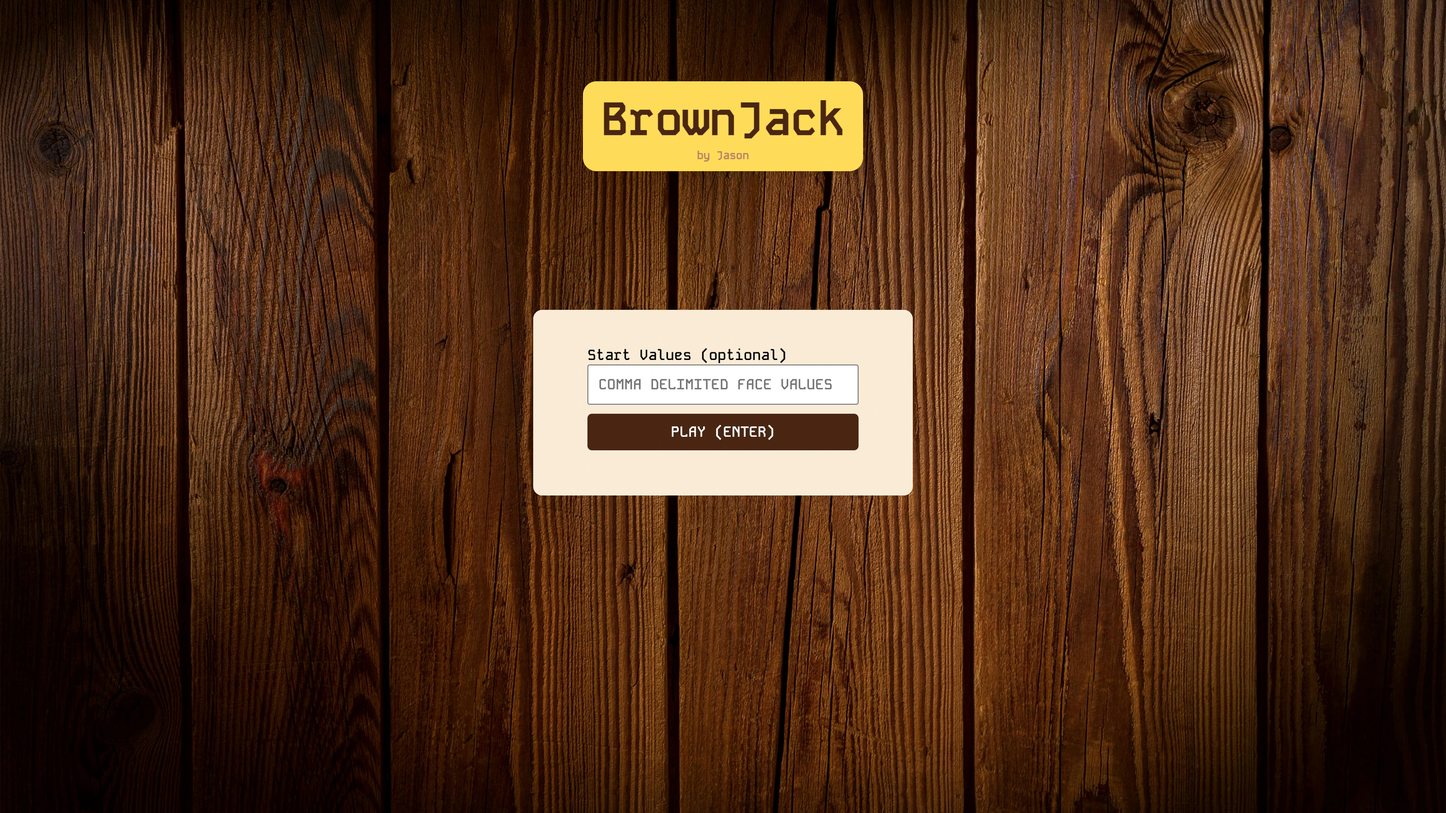
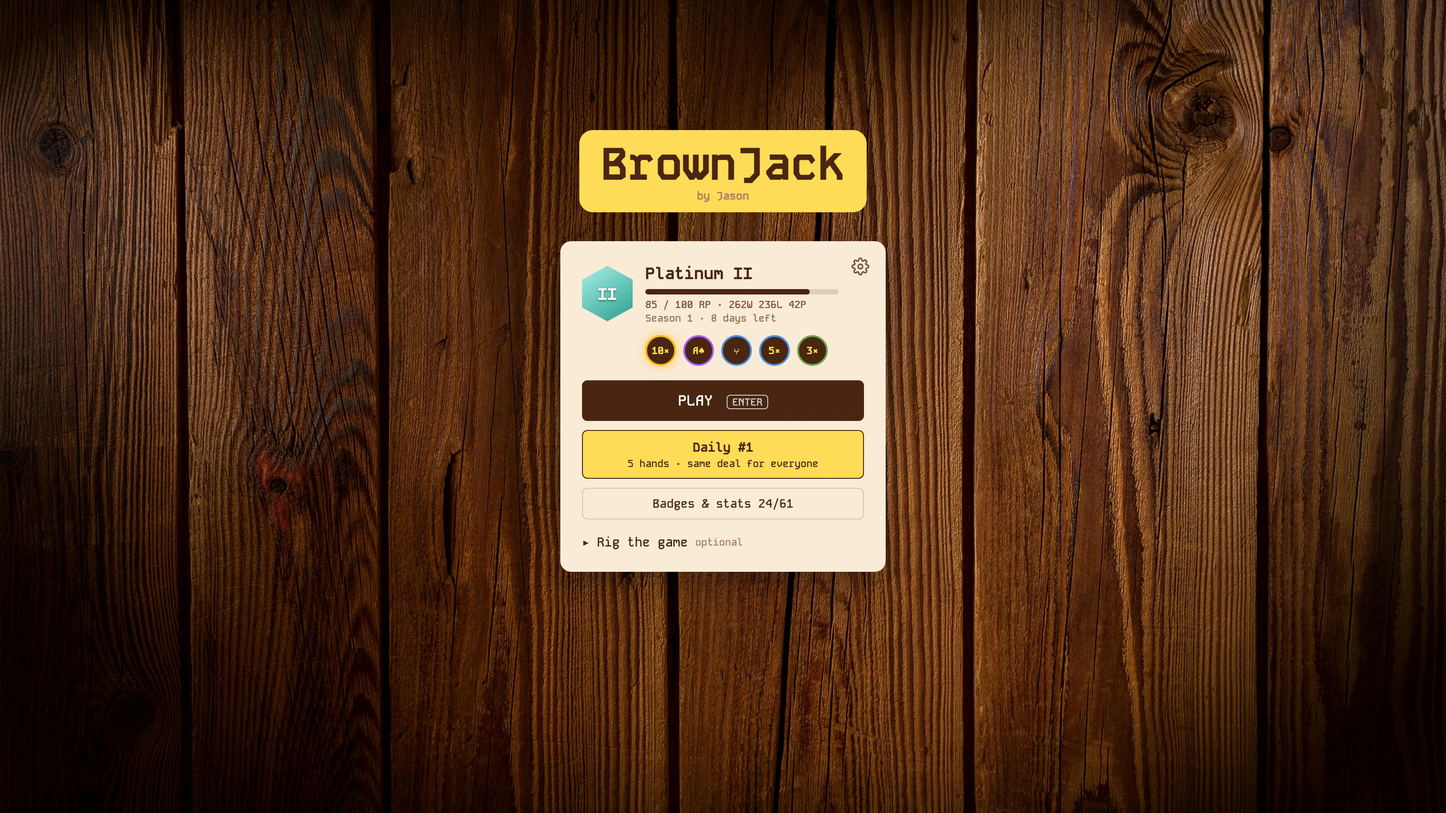
feat(portfolio): refresh the BrownJack project page
New 3200px screenshots of the rebuilt game (start screen with rank and
showcase, a split hand with the strategy coach, a tier-up celebration,
and Badges & stats), replacing the shots of the old interface. The
description, stack and "What stayed with me" reflections now cover the
fairness bug hunt, tuning the ladder by simulation, designing rewards,
and keeping the rules in small tested modules.

Changed region(s): [[0.3438, 0.0933, 0.6562, 0.7156]]

diff --git a/src/constants/const.js b/src/constants/const.js
@@ -322,25 +322,35 @@ export const PROJECTS = [
     slug: "brownjack",
     reflections: [
       {
-        title: "Turning rules into interactions",
+        title: "The bug wasn't where it felt like it was",
         description:
-          "I found it interesting to translate Blackjack rules into a sequence of player and dealer actions. I learned to think explicitly about the state of a round and which choices should be available at each point.",
+          "When the game felt unfair, I expected to find a broken shuffle. The shuffle was fine; the real problems were two games running at once, a dealer that chased the player's total, and a running total that broke on face cards. I learned to test my assumptions before fixing the thing that seems most obviously wrong.",
       },
       {
-        title: "Keeping the interface honest",
+        title: "Tuning with simulations",
         description:
-          "Building the game with plain JavaScript helped me understand the relationship between application state and the DOM. I learned how important clear feedback is when a single action changes several things on screen.",
+          "I found it interesting to design a ranking that gets harder as you climb. Instead of guessing point values, I simulated hundreds of thousands of hands of basic-strategy play to see how long each tier takes and how rare each badge really is, then tuned the numbers until the curve felt right.",
+      },
+      {
+        title: "Rewards that feel earned",
+        description:
+          "Building badges, rank-up animations and sounds taught me how much small moments of feedback shape a game. I learned to match each celebration to how rare the achievement is, and to lock it briefly so it can't be dismissed by a key press meant for the game.",
+      },
+      {
+        title: "Keeping the rules honest",
+        description:
+          "I kept the rules, scoring and save files as small pure modules with their own tests, separate from the page. That made it much easier to add doubles, splits, a six-deck shoe and seasons without breaking what already worked, and to reject tampered or damaged save files.",
       },
     ],
-    desc: "A client-side Blackjack game that allows users to play against an computer that behaves like a dealer with customizable functions.",
-    technologies: ["HTML", "CSS", "JavaScript"],
+    desc: "A browser Blackjack game with ranked seasons, 61 badges, a basic-strategy coach, doubles and splits, and a daily challenge with the same deal for everyone.",
+    technologies: ["HTML", "CSS", "JavaScript", "Web Audio API", "node:test"],
     urls: {
       github:
         "https://github.com/jsl1114/jsl1114.github.io/tree/v2/public/projects/brownjack",
       live: "https://jsl1114.github.io/projects/brownjack/game.html",
     },
     image: "brown.webp",
-    screenshots: ["brown1.webp", "brown2.webp", "brown3.webp"],
+    screenshots: ["brown1.webp", "brown2.webp", "brown3.webp", "brown4.webp"],
   },
   {
     title: "Terminal Portfolio",
